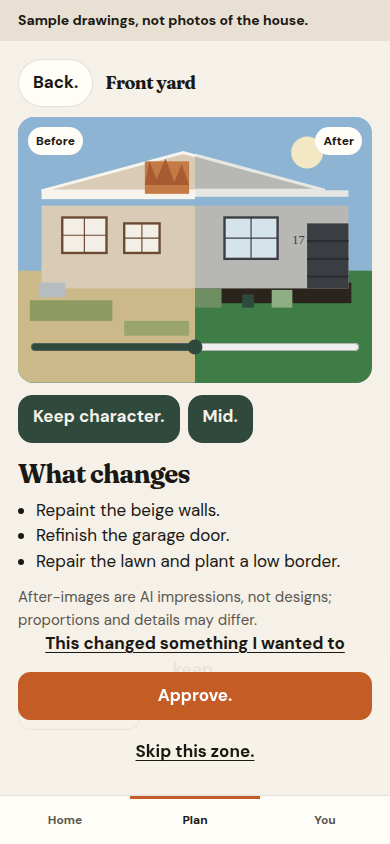
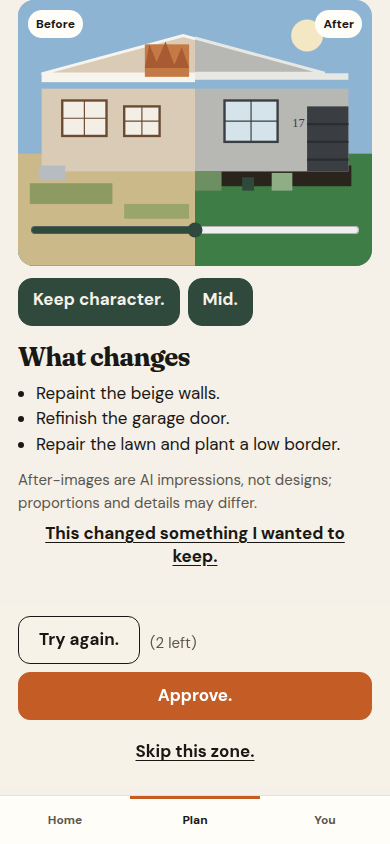
Keep sticky actions clear of the content above them.
The gallery shows the full drift link with Try again, Approve, and Skip. The zone list primary sits in the thumb zone, and Add a zone stays next to Done.

diff --git a/src/pages/EditZones.tsx b/src/pages/EditZones.tsx
@@ -10,6 +10,7 @@ export function EditZones({ onClose }: { onClose: () => void }) {
   const property = activeProperty(state);
   const zones = property ? propertyZones(state, property.id) : [];
   const [openId, setOpenId] = useState<string | null>(null);
+  const [adding, setAdding] = useState(false);
   const [draftName, setDraftName] = useState("");
   const [draftKind, setDraftKind] = useState<ZoneKind>("inside");
   const [merge, setMerge] = useState<{ source: Zone; targetId: string } | null>(null);
@@ -30,6 +31,7 @@ export function EditZones({ onClose }: { onClose: () => void }) {
     };
     dispatch({ type: "add-zone", zone });
     setDraftName("");
+    setAdding(false);
   }
 
   return (
@@ -49,9 +51,29 @@ export function EditZones({ onClose }: { onClose: () => void }) {
             {copy.merge}
           </button>
         ) : (
-          <button className="btn btn-primary btn-wide" type="button" onClick={onClose}>
-            {copy.done}
-          </button>
+          <>
+            {adding ? (
+              <div>
+                <label className="field">
+                  Name
+                  <input value={draftName} placeholder={copy.placeholderName} onChange={(event) => setDraftName(event.target.value)} />
+                </label>
+                <div className="chips">
+                  {(["outside", "inside"] as const).map((kind) => (
+                    <button key={kind} type="button" className="choice" aria-pressed={draftKind === kind} onClick={() => setDraftKind(kind)}>
+                      {kind === "outside" ? "Outside." : "Inside."}
+                    </button>
+                  ))}
+                </div>
+              </div>
+            ) : null}
+            <button className="btn btn-outline btn-wide" type="button" onClick={() => (adding ? add() : setAdding(true))}>
+              {copy.addZone}
+            </button>
+            <button className="btn btn-primary btn-wide" type="button" onClick={onClose}>
+              {copy.done}
+            </button>
+          </>
         )
       }
     >
@@ -152,21 +174,6 @@ export function EditZones({ onClose }: { onClose: () => void }) {
               ) : null}
             </div>
           ))}
-          <h3 style={{ marginTop: 16 }}>Add a zone</h3>
-          <label className="field">
-            Name
-            <input value={draftName} placeholder={copy.placeholderName} onChange={(event) => setDraftName(event.target.value)} />
-          </label>
-          <div className="chips">
-            {(["outside", "inside"] as const).map((kind) => (
-              <button key={kind} type="button" className="choice" aria-pressed={draftKind === kind} onClick={() => setDraftKind(kind)}>
-                {kind === "outside" ? "Outside." : "Inside."}
-              </button>
-            ))}
-          </div>
-          <button className="btn btn-outline btn-wide" type="button" onClick={add} style={{ marginTop: 8 }}>
-            {copy.addZone}
-          </button>
         </>
       )}
     </Sheet>

diff --git a/src/pages/Zones.tsx b/src/pages/Zones.tsx
@@ -67,7 +67,7 @@ export default function Zones() {
   }
 
   return (
-    <div className="page">
+    <div className={`page ${editing || sheet ? "" : "has-action"}`}>
       <Wordmark />
       <p className="kicker">Plan</p>
       <h1>{plan.name}</h1>
@@ -87,11 +87,6 @@ export default function Zones() {
           ))}
         </ul>
       ) : null}
-      {editing || sheet ? null : (
-        <button className="btn btn-primary btn-wide" type="button" onClick={follow}>
-          {next.label}
-        </button>
-      )}
       <div className="zone-grid">
         {visible.map((zone) => {
           const photos = photosFor(state, zone.id);
@@ -148,6 +143,13 @@ export default function Zones() {
           );
         })}
       </div>
+      {editing || sheet ? null : (
+        <ActionBar>
+          <button className="btn btn-primary btn-wide" type="button" onClick={follow}>
+            {next.label}
+          </button>
+        </ActionBar>
+      )}
       {editing ? <EditZones onClose={() => setParams({})} /> : null}
       {sheet === "push" ? <PushSheet onClose={() => setSheet(null)} /> : null}
     </div>

diff --git a/src/pages/Gallery.tsx b/src/pages/Gallery.tsx
@@ -151,7 +151,7 @@ export default function Gallery() {
       {zone && link ? (
         <>
           <button
-            className="text-btn"
+            className="text-btn drift-link"
             type="button"
             disabled={left === 0}
             onClick={() => {
@@ -161,17 +161,17 @@ export default function Gallery() {
           >
             {copy.drift}
           </button>
+        </>
+      ) : null}
+
+      {driftOpen || pushOpen || !zone || !link ? null : (
+        <ActionBar>
           <div className="try-row">
             <button className="btn btn-outline" type="button" disabled={left === 0 || busyZoneId === zone.id} onClick={() => void retry(false)}>
               {copy.tryAgain}
             </button>
             <span className="meta">{copy.triesLeft(left)}</span>
           </div>
-        </>
-      ) : null}
-
-      {driftOpen || pushOpen || !zone || !link ? null : (
-        <ActionBar>
           <button
             className="btn btn-primary btn-wide"
             type="button"

diff --git a/src/index.css b/src/index.css
@@ -31,11 +31,11 @@ img {
 }
 
 .page.has-action {
-  padding-bottom: calc(168px + env(safe-area-inset-bottom));
+  padding-bottom: calc(200px + env(safe-area-inset-bottom));
 }
 
 .page.has-skip {
-  padding-bottom: calc(220px + env(safe-area-inset-bottom));
+  padding-bottom: calc(300px + env(safe-area-inset-bottom));
 }
 
 h1,
@@ -658,6 +658,17 @@ h3 {
   display: flex;
   align-items: center;
   gap: 10px;
+}
+
+.drift-link {
+  display: flex;
+  width: 100%;
+  height: auto;
+  min-height: var(--tap);
+  white-space: normal;
+  line-height: 1.35;
+  text-align: center;
+  padding: 8px 4px;
 }
 
 .plan-card {

diff --git a/src/pages/Callout.tsx b/src/pages/Callout.tsx
@@ -141,7 +141,7 @@ export default function Callout() {
           {failed ? <p className="warn">{copy.nothingSent}</p> : null}
           {sent ? (
             <p className="banner" style={{ marginTop: 12 }}>
-              {copy.sent} Contractors on Workshop can reply.
+              {copy.sent}
             </p>
           ) : (
             <div className="action-bar">
